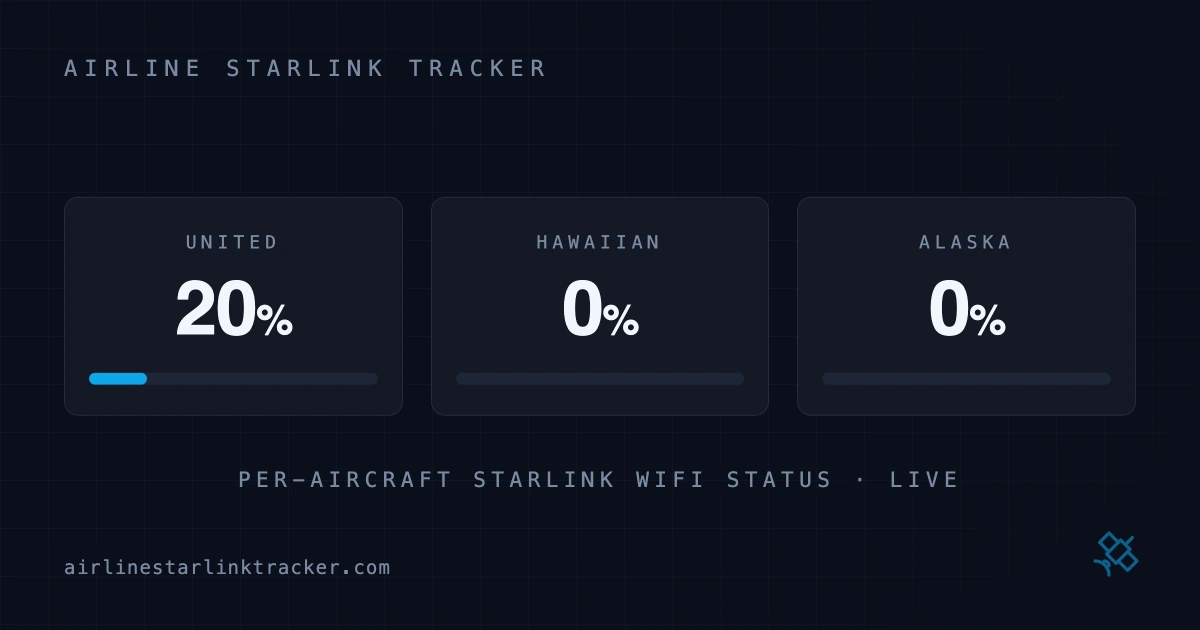
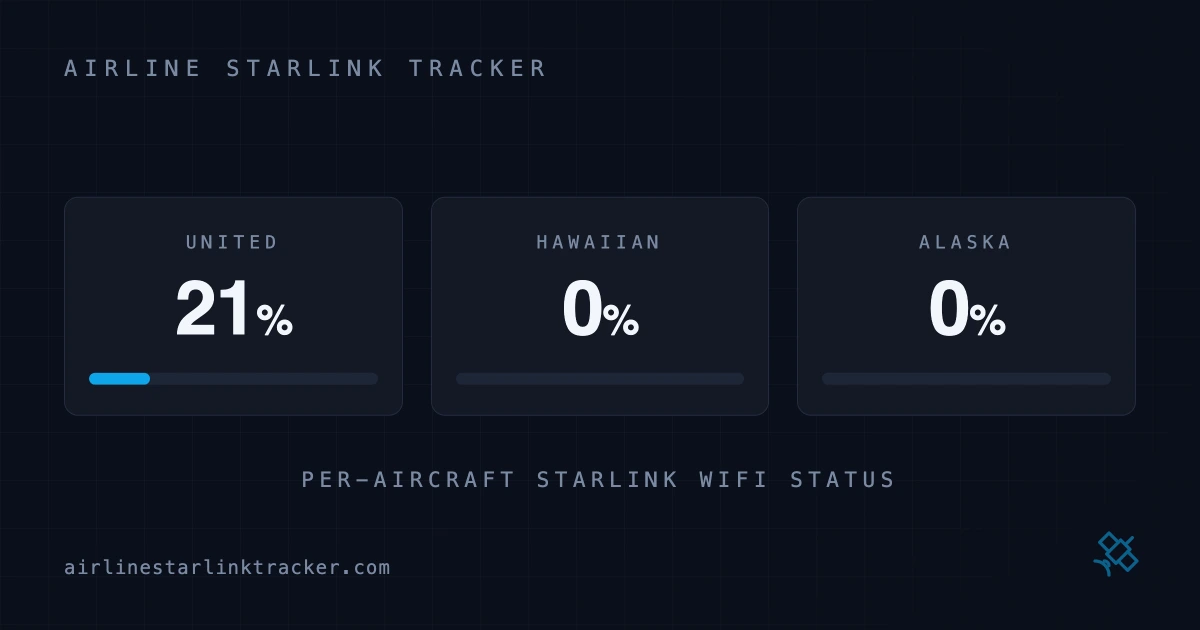
Drop the LIVE suffix from OG card captions

Changed region(s): [[0.185, 0.7238, 0.8017, 0.7841], [0.1542, 0.4524, 0.2158, 0.5429]]

diff --git a/scripts/generate-og-images.ts b/scripts/generate-og-images.ts
@@ -116,7 +116,7 @@ async function main() {
       domain: cfg.canonicalHost,
       accent: cfg.brand.accentColor.replace("#", ""),
       count: String(a.installed),
-      sub: "AIRCRAFT WITH STARLINK · LIVE",
+      sub: "AIRCRAFT WITH STARLINK",
       series: series.join(","),
     });
     const file = `social-image${a.code === "UA" ? "" : `-${a.code.toLowerCase()}`}.webp`;
@@ -136,7 +136,7 @@ async function main() {
     domain: HUB_HOST,
     accent: SITES.airline.brand.accentColor.replace("#", ""),
     cards: JSON.stringify(cards),
-    caption: "PER-AIRCRAFT STARLINK WIFI STATUS · LIVE",
+    caption: "PER-AIRCRAFT STARLINK WIFI STATUS",
   });
   await renderWebp(page, hubParams, path.join(OUT_DIR, "social-image-hub.webp"));
   generated.push(`social-image-hub.webp  ${cards.map((c) => `${c.name}=${c.pct}%`).join(" ")}`);

diff --git a/static/og.html b/static/og.html
@@ -118,7 +118,7 @@ const layout = q.get("layout") || "count";
 
 if (layout === "count") {
   const count = esc(q.get("count") || "—");
-  const sub = esc(q.get("sub") || "AIRCRAFT WITH STARLINK · LIVE");
+  const sub = esc(q.get("sub") || "AIRCRAFT WITH STARLINK");
   const series = (q.get("series") || "").split(",").map(Number).filter((n) => !Number.isNaN(n));
 
   let chartSvg = "";
@@ -160,7 +160,7 @@ if (layout === "count") {
 } else {
   let cards = [];
   try { cards = JSON.parse(q.get("cards") || "[]"); } catch {}
-  const caption = esc(q.get("caption") || "PER-AIRCRAFT STARLINK WIFI STATUS · LIVE");
+  const caption = esc(q.get("caption") || "PER-AIRCRAFT STARLINK WIFI STATUS");
   content.innerHTML = `
     <div class="cards">
       ${cards.map((c) => {
